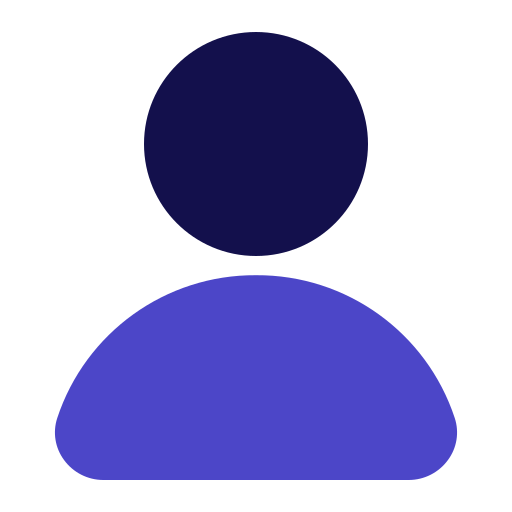
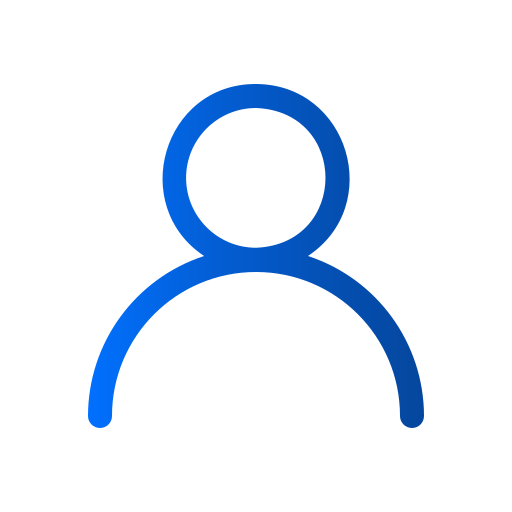
Will-Go portal acudiente: imagen de estudiante con contorno azul
Claude-Session: https://claude.ai/code/session_01TVhVekfHYvfHUdvasWrSf1

diff --git a/src/app/layouts/public-layout/pages/acudiente-will-go/panel-acudiente.ts b/src/app/layouts/public-layout/pages/acudiente-will-go/panel-acudiente.ts
@@ -80,7 +80,7 @@ import { ProcesandoRondaComponent } from '../../../private-layout-will-go/proces
                   <div class="absolute -right-10 -top-10 w-40 h-40 rounded-full bg-white/10" aria-hidden="true"></div>
                   <div class="absolute right-10 -bottom-12 w-28 h-28 rounded-full bg-white/10" aria-hidden="true"></div>
                   <div class="relative flex items-center gap-4">
-                    <div class="w-14 h-14 shrink-0 flex items-center justify-center" aria-hidden="true">
+                    <div class="wg-avatar w-14 h-14 shrink-0 flex items-center justify-center" aria-hidden="true">
                       <img src="assets/images/will-go/estudiante.png" alt="" class="w-full h-full object-contain">
                     </div>
                     <div class="min-w-0">
